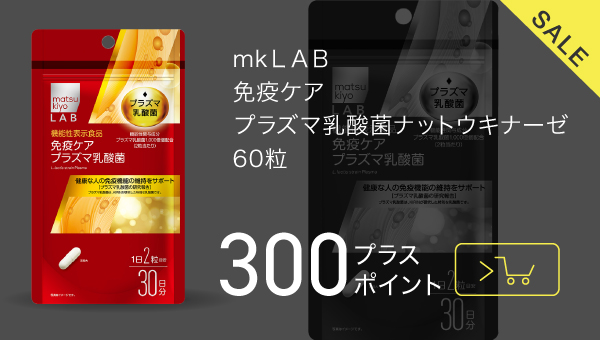
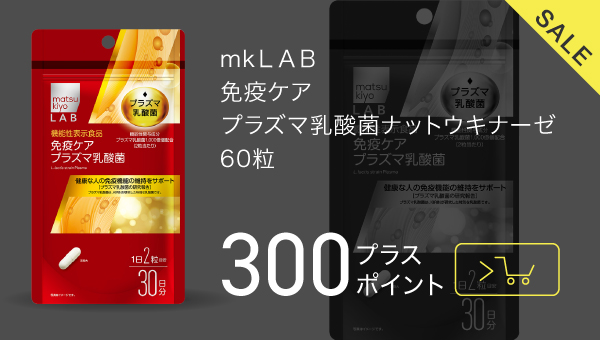
20240912　ピックアップ商品画像差し替え、ポイントコース画像差し替え、ピックアップ商品リンク修正

Changed region(s): [[0.36, 0.0, 0.99, 1.0], [0.36, 0.4412, 0.48, 0.5], [0.99, 0.2647, 1.0, 0.2941]]

diff --git a/20-静的ページ/mk/list_01_a.html b/20-静的ページ/mk/list_01_a.html
@@ -119,10 +119,10 @@
             <div id="swiperContainer" class="swiper-container PickupSwiper">
                 <div id="swiperWrapper" class="swiper-wrapper">
                     <div class="swiper-slide">
-                        <a href="https://www.matsukiyococokara-online.com/store/catalog/product/view/id/4580101209909" target="_blank">
-                            <img class="sp" src="img/mv_pickup_slide/slide-pickup-01-sp-cart.jpg" width="400" height="500" alt="pickup商品">
-                            <img class="pc" src="img/mv_pickup_slide/slide-pickup-01-pc-cart.jpg" width="600" height="340" alt="pickup商品">
-                        </a>
+                        <!-- <a href="https://www.matsukiyococokara-online.com/store/catalog/product/view/id/4580101209909" target="_blank"> -->
+                            <img class="sp" src="img/mv_pickup_slide/slide-pickup-01-sp-nocart.jpg" width="400" height="500" alt="pickup商品">
+                            <img class="pc" src="img/mv_pickup_slide/slide-pickup-01-pc-nocart.jpg" width="600" height="340" alt="pickup商品">
+                        <!-- </a> -->
                     </div>
                     <div class="swiper-slide">
                         <a href="https://www.matsukiyococokara-online.com/store/catalog/product/view/id/4987107624055" target="_blank">

diff --git a/20-静的ページ/mk/list_01_b.html b/20-静的ページ/mk/list_01_b.html
@@ -119,10 +119,10 @@
             <div id="swiperContainer" class="swiper-container PickupSwiper">
                 <div id="swiperWrapper" class="swiper-wrapper">
                     <div class="swiper-slide">
-                        <a href="https://www.matsukiyococokara-online.com/store/catalog/product/view/id/4580101209909" target="_blank">
-                            <img class="sp" src="img/mv_pickup_slide/slide-pickup-01-sp-cart.jpg" width="400" height="500" alt="pickup商品">
-                            <img class="pc" src="img/mv_pickup_slide/slide-pickup-01-pc-cart.jpg" width="600" height="340" alt="pickup商品">
-                        </a>
+                        <!-- <a href="https://www.matsukiyococokara-online.com/store/catalog/product/view/id/4580101209909" target="_blank"> -->
+                            <img class="sp" src="img/mv_pickup_slide/slide-pickup-01-sp-nocart.jpg" width="400" height="500" alt="pickup商品">
+                            <img class="pc" src="img/mv_pickup_slide/slide-pickup-01-pc-nocart.jpg" width="600" height="340" alt="pickup商品">
+                        <!-- </a> -->
                     </div>
                     <div class="swiper-slide">
                         <a href="https://www.matsukiyococokara-online.com/store/catalog/product/view/id/4987107624055" target="_blank">

diff --git a/20-静的ページ/mk/list_02_a.html b/20-静的ページ/mk/list_02_a.html
@@ -119,10 +119,10 @@
             <div id="swiperContainer" class="swiper-container PickupSwiper">
                 <div id="swiperWrapper" class="swiper-wrapper">
                     <div class="swiper-slide">
-                        <a href="https://www.matsukiyococokara-online.com/store/catalog/product/view/id/4580101209909" target="_blank">
-                            <img class="sp" src="img/mv_pickup_slide/slide-pickup-01-sp-cart.jpg" width="400" height="500" alt="pickup商品">
-                            <img class="pc" src="img/mv_pickup_slide/slide-pickup-01-pc-cart.jpg" width="600" height="340" alt="pickup商品">
-                        </a>
+                        <!-- <a href="https://www.matsukiyococokara-online.com/store/catalog/product/view/id/4580101209909" target="_blank"> -->
+                            <img class="sp" src="img/mv_pickup_slide/slide-pickup-01-sp-nocart.jpg" width="400" height="500" alt="pickup商品">
+                            <img class="pc" src="img/mv_pickup_slide/slide-pickup-01-pc-nocart.jpg" width="600" height="340" alt="pickup商品">
+                        <!-- </a> -->
                     </div>
                     <div class="swiper-slide">
                         <a href="https://www.matsukiyococokara-online.com/store/catalog/product/view/id/4987107624055" target="_blank">

diff --git a/20-静的ページ/mk/list_02_b.html b/20-静的ページ/mk/list_02_b.html
@@ -119,10 +119,10 @@
             <div id="swiperContainer" class="swiper-container PickupSwiper">
                 <div id="swiperWrapper" class="swiper-wrapper">
                     <div class="swiper-slide">
-                        <a href="https://www.matsukiyococokara-online.com/store/catalog/product/view/id/4580101209909" target="_blank">
-                            <img class="sp" src="img/mv_pickup_slide/slide-pickup-01-sp-cart.jpg" width="400" height="500" alt="pickup商品">
-                            <img class="pc" src="img/mv_pickup_slide/slide-pickup-01-pc-cart.jpg" width="600" height="340" alt="pickup商品">
-                        </a>
+                        <!-- <a href="https://www.matsukiyococokara-online.com/store/catalog/product/view/id/4580101209909" target="_blank"> -->
+                            <img class="sp" src="img/mv_pickup_slide/slide-pickup-01-sp-nocart.jpg" width="400" height="500" alt="pickup商品">
+                            <img class="pc" src="img/mv_pickup_slide/slide-pickup-01-pc-nocart.jpg" width="600" height="340" alt="pickup商品">
+                        <!-- </a> -->
                     </div>
                     <div class="swiper-slide">
                         <a href="https://www.matsukiyococokara-online.com/store/catalog/product/view/id/4987107624055" target="_blank">

diff --git a/20-静的ページ/mk/list_03_a.html b/20-静的ページ/mk/list_03_a.html
@@ -119,10 +119,10 @@
             <div id="swiperContainer" class="swiper-container PickupSwiper">
                 <div id="swiperWrapper" class="swiper-wrapper">
                     <div class="swiper-slide">
-                        <a href="https://www.matsukiyococokara-online.com/store/catalog/product/view/id/4580101209909" target="_blank">
-                            <img class="sp" src="img/mv_pickup_slide/slide-pickup-01-sp-cart.jpg" width="400" height="500" alt="pickup商品">
-                            <img class="pc" src="img/mv_pickup_slide/slide-pickup-01-pc-cart.jpg" width="600" height="340" alt="pickup商品">
-                        </a>
+                        <!-- <a href="https://www.matsukiyococokara-online.com/store/catalog/product/view/id/4580101209909" target="_blank"> -->
+                            <img class="sp" src="img/mv_pickup_slide/slide-pickup-01-sp-nocart.jpg" width="400" height="500" alt="pickup商品">
+                            <img class="pc" src="img/mv_pickup_slide/slide-pickup-01-pc-nocart.jpg" width="600" height="340" alt="pickup商品">
+                        <!-- </a> -->
                     </div>
                     <div class="swiper-slide">
                         <a href="https://www.matsukiyococokara-online.com/store/catalog/product/view/id/4987107624055" target="_blank">

diff --git a/20-静的ページ/mk/list_03_b.html b/20-静的ページ/mk/list_03_b.html
@@ -119,10 +119,10 @@
             <div id="swiperContainer" class="swiper-container PickupSwiper">
                 <div id="swiperWrapper" class="swiper-wrapper">
                     <div class="swiper-slide">
-                        <a href="https://www.matsukiyococokara-online.com/store/catalog/product/view/id/4580101209909" target="_blank">
-                            <img class="sp" src="img/mv_pickup_slide/slide-pickup-01-sp-cart.jpg" width="400" height="500" alt="pickup商品">
-                            <img class="pc" src="img/mv_pickup_slide/slide-pickup-01-pc-cart.jpg" width="600" height="340" alt="pickup商品">
-                        </a>
+                        <!-- <a href="https://www.matsukiyococokara-online.com/store/catalog/product/view/id/4580101209909" target="_blank"> -->
+                            <img class="sp" src="img/mv_pickup_slide/slide-pickup-01-sp-nocart.jpg" width="400" height="500" alt="pickup商品">
+                            <img class="pc" src="img/mv_pickup_slide/slide-pickup-01-pc-nocart.jpg" width="600" height="340" alt="pickup商品">
+                        <!-- </a> -->
                     </div>
                     <div class="swiper-slide">
                         <a href="https://www.matsukiyococokara-online.com/store/catalog/product/view/id/4987107624055" target="_blank">

diff --git a/20-静的ページ/mk/list_04_a.html b/20-静的ページ/mk/list_04_a.html
@@ -119,10 +119,10 @@
             <div id="swiperContainer" class="swiper-container PickupSwiper">
                 <div id="swiperWrapper" class="swiper-wrapper">
                     <div class="swiper-slide">
-                        <a href="https://www.matsukiyococokara-online.com/store/catalog/product/view/id/4580101209909" target="_blank">
-                            <img class="sp" src="img/mv_pickup_slide/slide-pickup-01-sp-cart.jpg" width="400" height="500" alt="pickup商品">
-                            <img class="pc" src="img/mv_pickup_slide/slide-pickup-01-pc-cart.jpg" width="600" height="340" alt="pickup商品">
-                        </a>
+                        <!-- <a href="https://www.matsukiyococokara-online.com/store/catalog/product/view/id/4580101209909" target="_blank"> -->
+                            <img class="sp" src="img/mv_pickup_slide/slide-pickup-01-sp-nocart.jpg" width="400" height="500" alt="pickup商品">
+                            <img class="pc" src="img/mv_pickup_slide/slide-pickup-01-pc-nocart.jpg" width="600" height="340" alt="pickup商品">
+                        <!-- </a> -->
                     </div>
                     <div class="swiper-slide">
                         <a href="https://www.matsukiyococokara-online.com/store/catalog/product/view/id/4987107624055" target="_blank">

diff --git a/20-静的ページ/mk/list_04_b.html b/20-静的ページ/mk/list_04_b.html
@@ -120,10 +120,10 @@
             <div id="swiperContainer" class="swiper-container PickupSwiper">
                 <div id="swiperWrapper" class="swiper-wrapper">
                     <div class="swiper-slide">
-                        <a href="https://www.matsukiyococokara-online.com/store/catalog/product/view/id/4580101209909" target="_blank">
-                            <img class="sp" src="img/mv_pickup_slide/slide-pickup-01-sp-cart.jpg" width="400" height="500" alt="pickup商品">
-                            <img class="pc" src="img/mv_pickup_slide/slide-pickup-01-pc-cart.jpg" width="600" height="340" alt="pickup商品">
-                        </a>
+                        <!-- <a href="https://www.matsukiyococokara-online.com/store/catalog/product/view/id/4580101209909" target="_blank"> -->
+                            <img class="sp" src="img/mv_pickup_slide/slide-pickup-01-sp-nocart.jpg" width="400" height="500" alt="pickup商品">
+                            <img class="pc" src="img/mv_pickup_slide/slide-pickup-01-pc-nocart.jpg" width="600" height="340" alt="pickup商品">
+                        <!-- </a> -->
                     </div>
                     <div class="swiper-slide">
                         <a href="https://www.matsukiyococokara-online.com/store/catalog/product/view/id/4987107624055" target="_blank">
